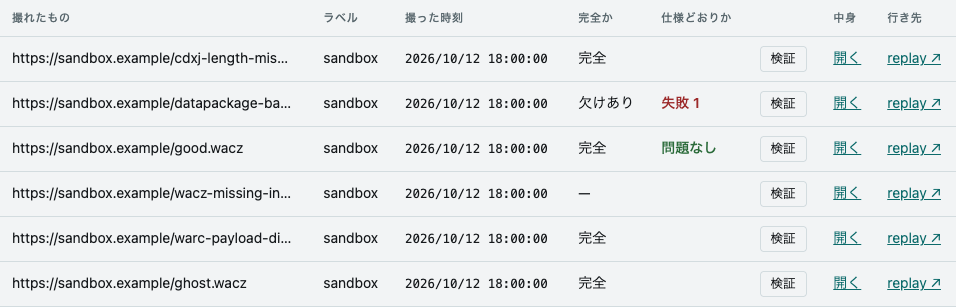
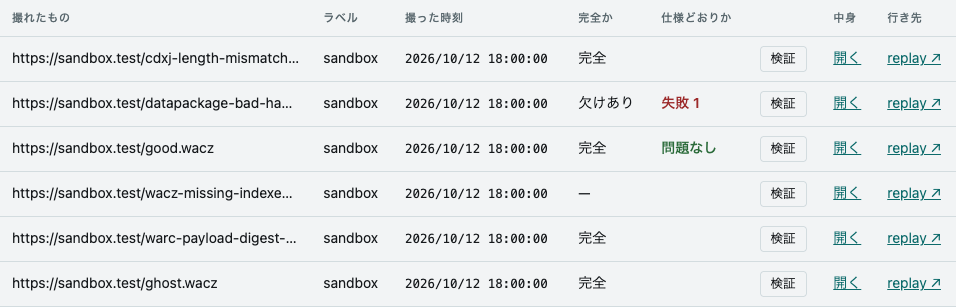
test: 試験と代役の名前を .test に揃え、単体試験から実 DNS を締め出す
- test/no-dns.ts（browserhive と同じファイル）を node --test の --import で読ませる。
  引いてよいのは IP リテラル・localhost・*.invalid（RFC 6761 §6.3・§6.4）だけで、ほかの
  名前を引いた試験は afterEach で赤になる。いまこの repo の試験は名前を引いていない。それを保つ
- 試験の探し方を "test/*.test.mjs" と明示する。node --test の既定の探し方は test/ の下の
  .mjs と .ts を全部拾うので、締め出しのファイルそのものを試験として走らせていた
- scripts/check-test-hosts.mjs: 試験の場所（test/・sandbox/）に example 名を書いたら赤。
  check の最後に足す（CI は npm run check）
- 試験と代役（sandbox/scenario.json・fake-ledger.mjs）の example 名 131 個を .test に
  置き換える（sandbox.example → sandbox.test など。正規表現の ads\.example\.com も）
- 代役が変わったので「画面」の絵を撮り直す（変わったのは crawls・crawl-detail・archives の 3 枚）

Claude-Session: https://claude.ai/code/session_01TRqfaMjTTvYKABEbf5jdbA

diff --git a/test/no-dns.ts b/test/no-dns.ts
@@ -1,0 +1,82 @@
+/**
+ * 単体試験から実 DNS を締め出す。Vitest は setupFiles、node --test は --import で読ませる。
+ *
+ * 引いてよいのは、RFC 6761 が答えを決めている名前だけ:
+ *   - IP リテラル（引かない）と localhost（§6.3。OS の hosts が答える）
+ *   - *.invalid（§6.4。網に聞かずに「無い」と答える）
+ * ほかの名前は「無い」と答えたうえで記録し、その試験を afterEach で赤にする。lookup の中で
+ * 投げて知らせないのは、呼んだ側が lookup の失敗を握りつぶすことがあるから（browserhive の
+ * checkCaptureAddress は引けない名前を通す）。答えが要る試験は、試験の中で
+ * vi.mock("node:dns/promises") を使って差し込む。
+ *
+ * 同じファイルを 6 repo に置く（browserhive・capture-ledger・capture-scheduler・capture-fixtures・
+ * dashboard・wacz-validator）。直すときは 6 つとも直す。
+ */
+import dns from "node:dns";
+import dnsPromises from "node:dns/promises";
+import { syncBuiltinESMExports } from "node:module";
+import { isIP } from "node:net";
+
+type Lookup = (this: unknown, host: string, ...rest: unknown[]) => unknown;
+interface State {
+  refused: string[];
+  installed: boolean;
+}
+
+// Vitest は試験ファイルごとに setup を読み直すので、状態は process に 1 つだけ持つ
+// （Symbol.for は読み直しをまたいで同じ鍵を返す）。
+const scope = globalThis as unknown as Record<symbol, State | undefined>;
+const state = (scope[Symbol.for("crawler.no-dns")] ??= { refused: [], installed: false });
+
+/** "pass" は本物の lookup に渡す。"nxdomain" は網に聞かずに「無い」と答える。 */
+const decide = (host: string): "pass" | "nxdomain" | "refuse" => {
+  if (isIP(host) !== 0) return "pass";
+  const name = host.toLowerCase().replace(/\.$/, "");
+  if (name === "localhost") return "pass";
+  if (name === "invalid" || name.endsWith(".invalid")) return "nxdomain";
+  return "refuse";
+};
+
+const notFound = (host: string): NodeJS.ErrnoException =>
+  Object.assign(new Error(`getaddrinfo ENOTFOUND ${host}`), {
+    code: "ENOTFOUND",
+    syscall: "getaddrinfo",
+    hostname: host,
+  });
+
+if (!state.installed) {
+  state.installed = true;
+  // dns.lookup は callback の形（net・http・fetch はこちらを通る）。
+  const callbackApi = dns as unknown as { lookup: Lookup };
+  const callbackLookup = callbackApi.lookup;
+  callbackApi.lookup = function lookup(host, ...rest) {
+    const verdict = decide(host);
+    if (verdict === "pass") return callbackLookup.call(this, host, ...rest);
+    if (verdict === "refuse") state.refused.push(host);
+    process.nextTick(rest.at(-1) as (error: Error) => void, notFound(host));
+    return {};
+  };
+  // dns/promises の lookup（browserhive の src はこちらを import する）。
+  for (const api of new Set([dnsPromises, dns.promises]) as Set<unknown>) {
+    const promiseApi = api as { lookup: Lookup };
+    const promiseLookup = promiseApi.lookup;
+    promiseApi.lookup = function lookup(host, ...rest) {
+      const verdict = decide(host);
+      if (verdict === "pass") return promiseLookup.call(this, host, ...rest);
+      if (verdict === "refuse") state.refused.push(host);
+      return Promise.reject(notFound(host));
+    };
+  }
+  // import { lookup } from "node:dns/promises" の側にも、差し替えを届かせる。
+  syncBuiltinESMExports();
+}
+
+const { afterEach } = process.env["VITEST"] ? await import("vitest") : await import("node:test");
+afterEach(() => {
+  const names = state.refused.splice(0);
+  if (names.length > 0) {
+    throw new Error(
+      `単体試験が実 DNS を引いた: ${[...new Set(names)].join(", ")} —— 答えは試験の中で差し込む（vi.mock("node:dns/promises")）`,
+    );
+  }
+});
